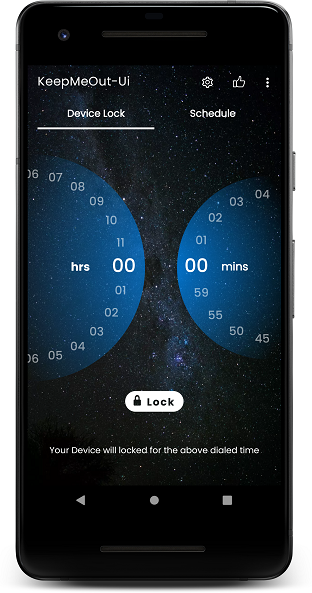
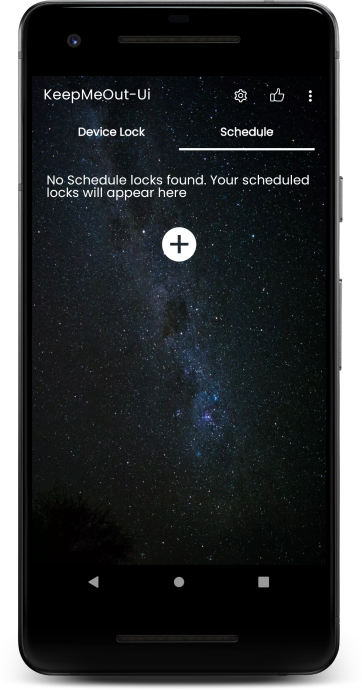
updated view for scheduled lock

diff --git a/switch/src/main/java/com/button/toggle/widget/LabeledSwitch.kt b/switch/src/main/java/com/button/toggle/widget/LabeledSwitch.kt
@@ -72,9 +72,7 @@ class LabeledSwitch : ToggleableView {
      * the switch. Can be 0 to not look for defaults.
      */
     constructor(context: Context?, attrs: AttributeSet, defStyleAttr: Int) : super(
-        context,
-        attrs,
-        defStyleAttr
+        context, attrs, defStyleAttr
     ) {
         initView()
         initProperties(attrs)
@@ -82,8 +80,8 @@ class LabeledSwitch : ToggleableView {
 
     private fun initView() {
         isOn = false
-        labelOn = "ON"
-        labelOff = "OFF"
+        labelOn = context.getString(R.string.label_on)
+        labelOff = context.getString(R.string.label_off)
         enabled = true
         textSize = (12f * resources.displayMetrics.scaledDensity).toInt()
         colorOn = ContextCompat.getColor(context, R.color.colorAccent)
@@ -96,8 +94,8 @@ class LabeledSwitch : ToggleableView {
         rightFgArc = RectF()
         thumbBounds = RectF()
         outlineFgArc = RectF()
-        colorOff = Color.parseColor("#FFFFFF")
-        colorDisabled = Color.parseColor("#D3D3D3")
+        colorOff = ContextCompat.getColor(context, android.R.color.white)
+        colorDisabled = ContextCompat.getColor(context, R.color.colorDisabled)
         strokePaint = Paint().apply {
             color = colorBorder
             style = Paint.Style.STROKE
@@ -118,7 +116,10 @@ class LabeledSwitch : ToggleableView {
                 }
                 R.styleable.Toggle_colorOff -> {
                     colorOff =
-                        attr.getColor(R.styleable.Toggle_colorOff, Color.parseColor("#FFFFFF"))
+                        attr.getColor(
+                            R.styleable.Toggle_colorOff,
+                            ContextCompat.getColor(context, android.R.color.white)
+                        )
                 }
                 R.styleable.Toggle_colorBorder -> {
                     val accentColor: Int = ContextCompat.getColor(context, R.color.colorAccent)
@@ -131,7 +132,10 @@ class LabeledSwitch : ToggleableView {
                 }
                 R.styleable.Toggle_colorDisabled -> {
                     colorDisabled =
-                        attr.getColor(R.styleable.Toggle_colorOff, Color.parseColor("#D3D3D3"))
+                        attr.getColor(
+                            R.styleable.Toggle_colorOff,
+                            ContextCompat.getColor(context, R.color.colorDisabled)
+                        )
                 }
                 R.styleable.Toggle_textOff -> {
                     labelOff = attr.getString(R.styleable.Toggle_textOff)!!
@@ -247,7 +251,7 @@ class LabeledSwitch : ToggleableView {
     }
 
     private fun drawSwitchLabels(canvas: Canvas, paint: Paint) {
-        val maxChar = "N"
+        val maxChar = context.getString(R.string.max_char)
         val textCenter = paint.measureText(maxChar) / 2
         if (isOn) {
             var alpha =

diff --git a/app/src/main/java/com/example/keepmeout_ui/ui/devicelock/PageViewModel.kt b/app/src/main/java/com/example/keepmeout_ui/ui/devicelock/PageViewModel.kt
@@ -7,6 +7,7 @@ import androidx.lifecycle.Transformations
 import androidx.lifecycle.ViewModel
 import com.example.keepmeout_ui.BR
 import com.example.keepmeout_ui.R
+import com.example.keepmeout_ui.data.ScheduleItemData
 import me.tatarka.bindingcollectionadapter2.itembindings.OnItemBindClass
 
 class PageViewModel : ViewModel() {
@@ -26,12 +27,31 @@ class PageViewModel : ViewModel() {
     }
 
     fun setListItems() {
+        if (items.size == 1) {
+            items.clear()
+            items.add(ScheduleItemData("study").apply {
+                setDaysListItems(listOf("W", "T", "F"))
+            })
+            items.add(ScheduleItemData("work", false).apply {
+                setDaysListItems(listOf("M", "T", "W", "T", "F"))
+            })
+            items.add(ScheduleItemData("meditation").apply {
+                setDaysListItems(listOf("Everyday"))
+            })
+        } else
+            inflateEmpty()
+    }
+
+    fun inflateEmpty() {
         items.clear()
-        items.add("abc")
+        items.add("empty")
     }
 
     val accessoryBinding: OnItemBindClass<Any> = OnItemBindClass<Any>()
-        .map(String::class.java) { itemBinding, _, _ ->
-            itemBinding.clearExtras().set(BR.toggle, R.layout.layout_item_schedule_lock)
+        .map(ScheduleItemData::class.java) { itemBinding, _, _ ->
+            itemBinding.clearExtras().set(BR.item, R.layout.layout_item_schedule_lock)
+        }
+        .map(String()::class.java) { itemBinding, _, _ ->
+            itemBinding.clearExtras().set(BR.data, R.layout.layout_item_empty_view)
         }
 }

diff --git a/app/src/main/java/com/example/keepmeout_ui/adapter/BindingAdapter.kt b/app/src/main/java/com/example/keepmeout_ui/adapter/BindingAdapter.kt
@@ -1,0 +1,33 @@
+package com.example.keepmeout_ui.adapter
+
+import android.view.View
+import android.widget.ImageView
+import android.widget.TextView
+import androidx.core.content.ContextCompat
+import androidx.databinding.BindingAdapter
+import com.example.keepmeout_ui.R
+
+
+/**
+ * Custom binding adapter
+ *
+ * Created by: Vikesh Dass
+ * Created on: 24-11-2020
+ * Email : vikeshdass@gmail.com
+ */
+@BindingAdapter("isEnabled")
+fun View.setViewState(isEnabled: Boolean) {
+    (this as? TextView)?.setTextColor(
+        ContextCompat.getColor(
+            context,
+            if (isEnabled) R.color.white else R.color.disabled
+        )
+    ) ?: run {
+        (this as? ImageView)?.setImageDrawable(
+            ContextCompat.getDrawable(
+                context,
+                if (isEnabled) R.drawable.ic_rectangle_enabled else R.drawable.ic_rectangle_disabled
+            )
+        )
+    }
+}

diff --git a/app/src/main/java/com/example/keepmeout_ui/data/ScheduleItemData.kt b/app/src/main/java/com/example/keepmeout_ui/data/ScheduleItemData.kt
@@ -1,0 +1,24 @@
+package com.example.keepmeout_ui.data
+
+import androidx.databinding.ObservableArrayList
+import com.example.keepmeout_ui.BR
+import com.example.keepmeout_ui.R
+import me.tatarka.bindingcollectionadapter2.itembindings.OnItemBindClass
+
+data class ScheduleItemData(val mLabel: String, val isEnabled: Boolean = true) {
+    private val dayItems = ObservableArrayList<Any>()
+    fun getDaysListItems(): ObservableArrayList<Any> {
+        return dayItems
+    }
+
+    fun setDaysListItems(list: List<String>) {
+        dayItems.clear()
+        dayItems.addAll(list)
+    }
+
+    val accessoryDaysBinding: OnItemBindClass<Any> = OnItemBindClass<Any>()
+        .map(String()::class.java) { itemBinding, _, _ ->
+            itemBinding.clearExtras().set(BR.day, R.layout.layout_item_day_view)
+                .bindExtra(BR.isEnabled, isEnabled)
+        }
+}

diff --git a/app/src/main/java/com/example/keepmeout_ui/adapter/SimpleTextAdapter.kt b/app/src/main/java/com/example/keepmeout_ui/adapter/SimpleTextAdapter.kt
@@ -1,14 +1,12 @@
 package com.example.keepmeout_ui.adapter
 
 import android.content.Context
-import android.util.TypedValue
 import android.view.Gravity
 import android.view.LayoutInflater
 import android.view.View
 import android.widget.FrameLayout
 import android.widget.TextView
 import com.example.keepmeout_ui.R
-import com.example.keepmeout_ui.data.MenuItemData
 import github.hellocsl.cursorwheel.CursorWheelLayout.CycleWheelAdapter
 
 /**

diff --git a/app/src/main/java/com/example/keepmeout_ui/ui/schedulelock/ScheduleLockFragment.kt b/app/src/main/java/com/example/keepmeout_ui/ui/schedulelock/ScheduleLockFragment.kt
@@ -32,7 +32,7 @@ class ScheduleLockFragment : Fragment() {
         viewBinding = DataBindingUtil.bind(root)!!
         viewBinding.viewModel = pageViewModel
         viewBinding.lifecycleOwner = this
-        pageViewModel.setListItems()
+        pageViewModel.inflateEmpty()
         return root
     }
 

diff --git a/README.md b/README.md
@@ -3,8 +3,8 @@ For new UI for existing application KeepMeOut
 
 ## Screenshots (progress wise)
 <img src="https://github.com/shadygoneinsane/KeepMeOut-Ui/blob/master/screenshots/screenshot_1.png" alt="Screenshot 1"/>
-<img src="https://github.com/shadygoneinsane/KeepMeOut-Ui/blob/master/screenshots/screenshot_2.png" alt="Screenshot 2"/>
 <img src="https://github.com/shadygoneinsane/KeepMeOut-Ui/blob/master/screenshots/screenshot_3.png" alt="Screenshot 3"/>
+<img src="https://github.com/shadygoneinsane/KeepMeOut-Ui/blob/master/screenshots/screenshot_4.png" alt="Screenshot 4"/>
 
 ## Apk
 
